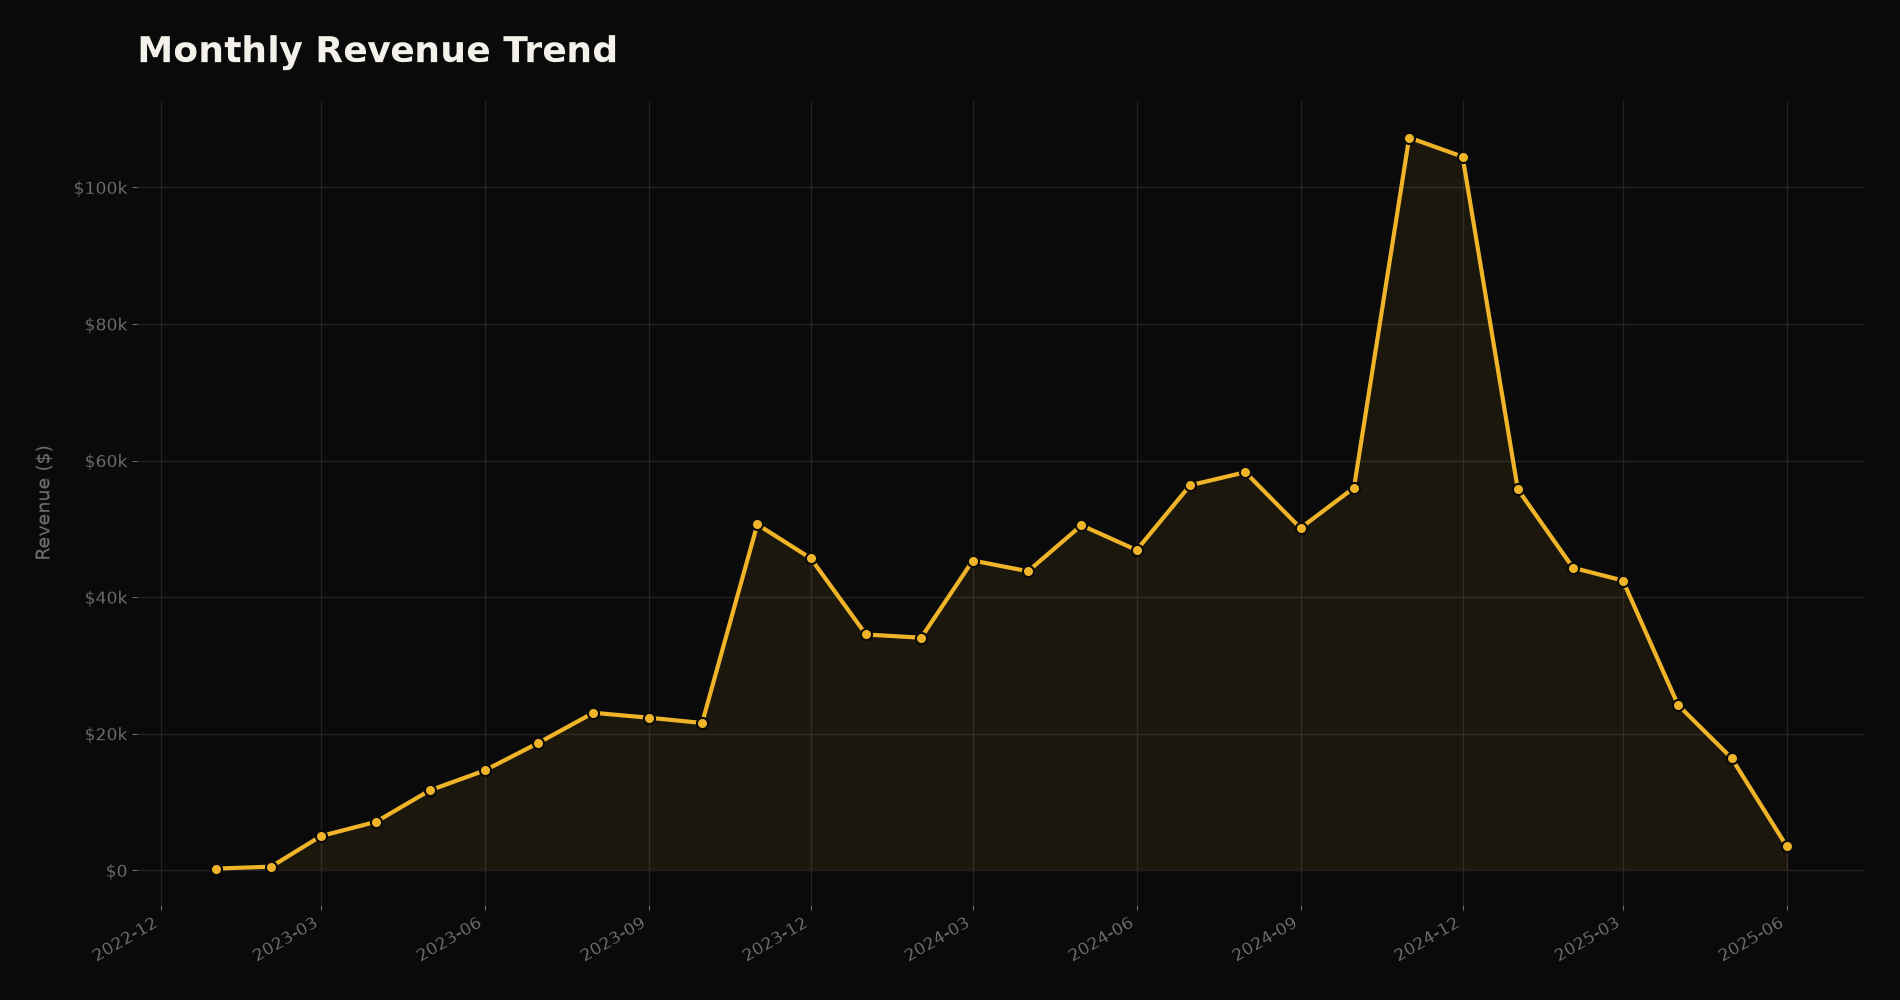
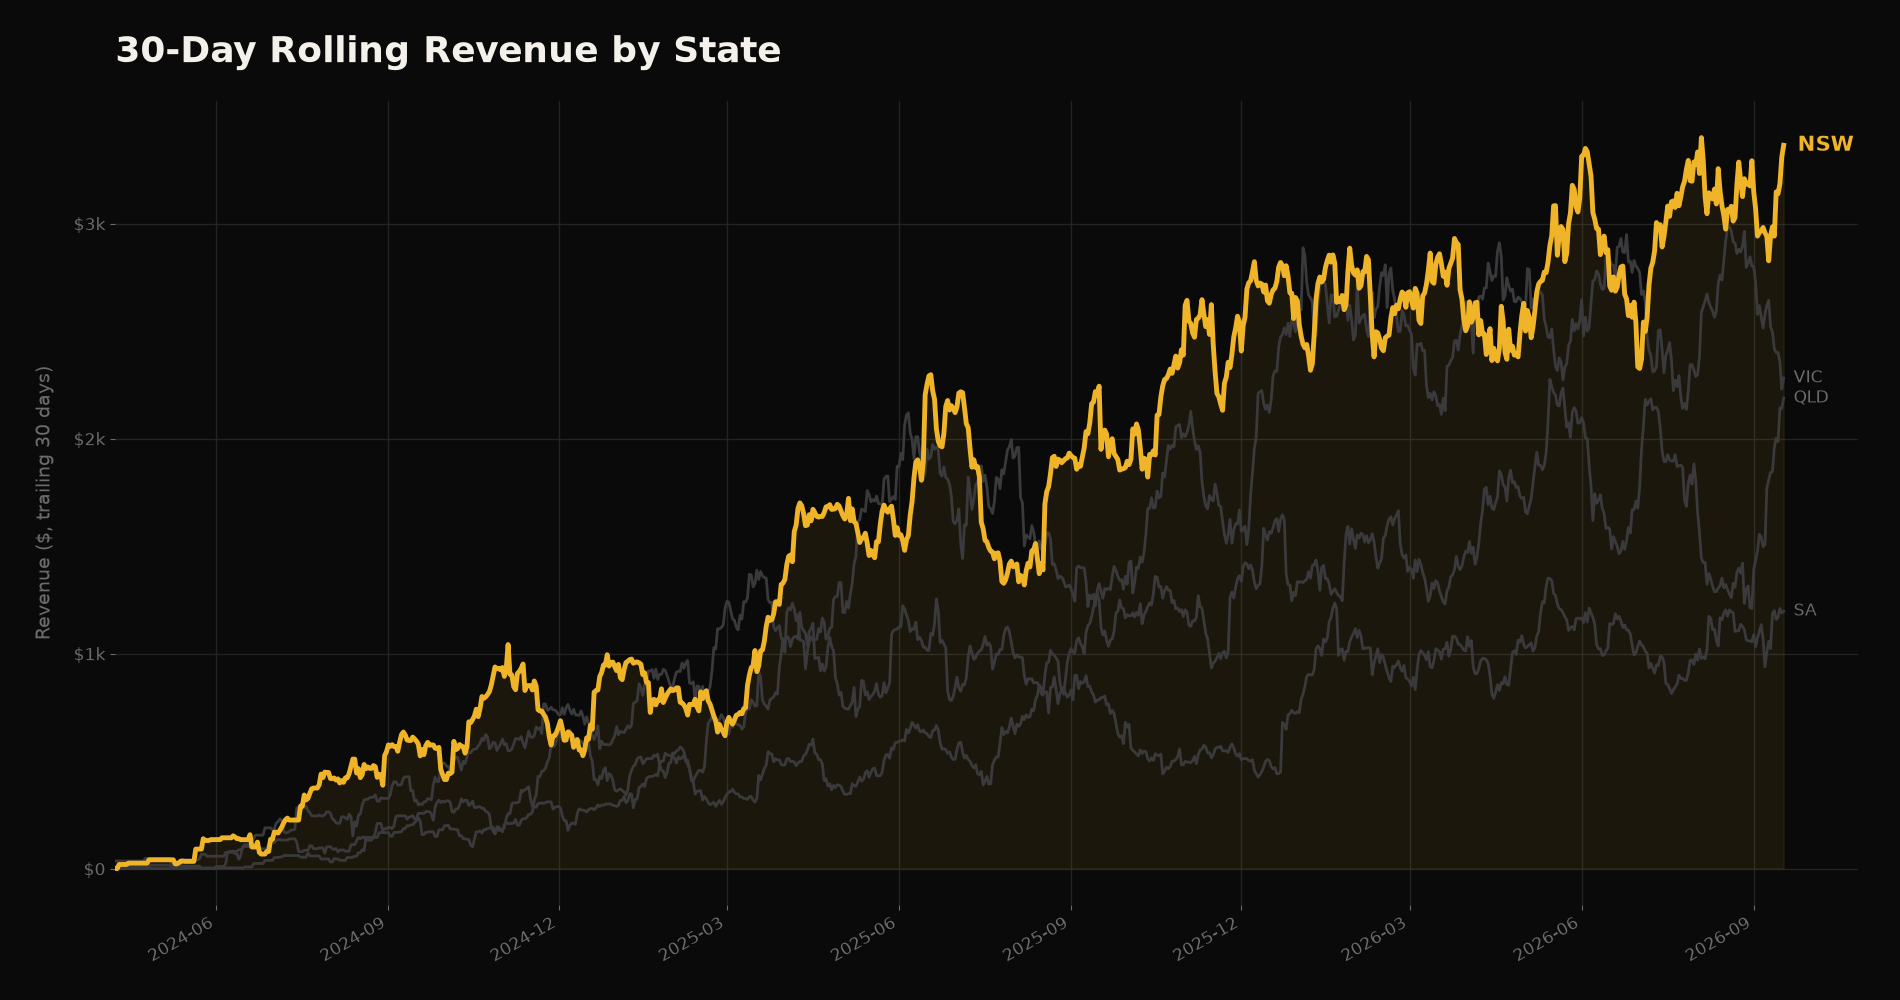
Update SQL Retail Analytics project to match its Australian supermarket rebuild
The underlying project moved from a generic synthetic retail dataset to
a PostgreSQL-first model of Woolworths/Coles banners (1,500 customers,
45 stores, 10,000 transactions across NSW/VIC/QLD/SA) with three
advanced window-function analyses replacing the old five-query/notebook
setup. Rewrote the case-study copy and stack to match, and regenerated
the cover chart from the real seeded database (30-day rolling revenue
by state) instead of leaving the stale notebook-era chart in place.

diff --git a/data/projects.ts b/data/projects.ts
@@ -198,52 +198,52 @@ export const projects: PortfolioProject[] = [
   },
   {
     slug: "sql-retail-analytics",
-    title: "SQL Retail Analytics",
-    subtitle: "SQL-first retail analysis: cohorts, churn risk, and window functions",
-    impact: "Automated churn-risk and cohort queries, each verified by a data-integrity test suite.",
+    title: "Australian Supermarket Retail Analytics",
+    subtitle: "PostgreSQL window-function analytics for Woolworths & Coles",
+    impact: "Modeled churn risk, cohort retention, and rolling regional revenue on a realistic AU supermarket dataset, each backed by a data-integrity test suite.",
     overview:
-      "A SQL-first analysis of a synthetic retail dataset, 600 customers and roughly 3,200 orders spanning early 2023 to mid-2025, using CTEs, window functions, and cohort analysis.",
+      "A SQL-first analysis of a synthetic Australian supermarket dataset, 1,500 customers and 45 stores across Woolworths and Coles banners, and 10,000 transactions spanning NSW, VIC, QLD, and SA, using PostgreSQL window functions for churn scoring, cohort retention, and rolling revenue.",
     image: "/projects/sql-retail-analytics-cover.png",
     accentImage: "/projects/sql-retail-analytics-cover.png",
     images: [],
     liveUrl: "",
     githubUrl: "https://github.com/prodev1996/sql-retail-analytics",
     liveLabel: "github.com/prodev1996/sql-retail-analytics",
-    stack: ["SQL", "Python", "Jupyter Notebook", "pytest"],
+    stack: ["SQL", "PostgreSQL", "Python", "Pandas", "Faker", "pytest"],
     businessGoal:
-      "Prove out real analyst SQL on a dataset realistic enough to have something genuine to say about customer behaviour.",
+      "Prove out real analyst SQL on a dataset realistic enough to have something genuine to say about customer behaviour, modeled on Australia's two dominant grocery banners.",
     role: "Solo build: schema design, synthetic data generation, SQL analysis, and testing",
     measurableOutcome:
-      "Five standalone SQL queries answering specific business questions, each backed by an executed, documented notebook and a data-integrity pytest suite.",
+      "Three advanced window-function analyses covering churn risk, cohort retention, and rolling regional revenue, each backed by a normalized PostgreSQL schema and a data-integrity pytest suite.",
     trustSignals: [
-      "Normalized relational schema",
-      "Window functions & cohort analysis",
+      "Normalized PostgreSQL schema",
+      "Advanced window functions",
       "Data-integrity test suite",
     ],
     proofPoints: [
-      "Designed a normalized schema (customers, orders, order_items, products, categories) and a deterministic synthetic data generator with built-in seasonality, loyalty variance, and a churn tail.",
-      "Wrote five independent SQL queries covering revenue trend with month-over-month growth (LAG()), customer lifetime value (DENSE_RANK()), product ranking within category (RANK() PARTITION BY), signup-cohort retention, and a gap-ratio churn-risk model.",
-      "Built a pytest suite checking referential integrity, value ranges, and that every analysis query actually executes and returns rows.",
+      "Designed a normalized schema (customers, stores, products, transactions) modeling Woolworths Group and Coles Group banners across NSW, VIC, QLD, and SA, seeded with ~1,500 customers, 45 stores, and 10,000 transactions via Pandas and Faker.",
+      "Wrote three advanced analyses: customer churn risk scoring (NTILE spend quartiles plus inactivity thresholds), a cohort retention matrix (COUNT() OVER PARTITION BY), and 30-day rolling revenue and basket size per region built on a full calendar spine (generate_series, LATERAL) with rolling SUM() OVER frames and LAG() for day-over-day change.",
+      "Built a pytest suite checking referential integrity, value ranges, and domain sanity across the generated dataset.",
     ],
     skillsShown: [
-      "Advanced SQL (CTEs, window functions)",
+      "Advanced SQL (window functions, LATERAL joins)",
       "Relational schema design",
       "Cohort & churn analysis",
       "Data-integrity testing",
     ],
     supportProof: [
-      "Wrote up findings for each query directly in the notebook, with committed outputs so the analysis is readable on GitHub without running anything.",
-      "Used a gap-ratio churn rule (a customer's current order gap versus their own historical average) instead of a flat days-since-last-order cutoff, for a more personalised at-risk list.",
-      "Documented setup, data generation, and how to reproduce every result from scratch.",
+      "Targeted PostgreSQL as the primary database, with a zero-config SQLite fallback for quick local evaluation.",
+      "Modeled realistic domain detail: real AU state/postcode constraints, loyalty programs (Everyday Rewards / Flybuys), and 13 supermarket categories with real brand-style product names.",
+      "Documented setup, data generation, and how to reproduce every result from scratch, for both PostgreSQL and SQLite.",
     ],
     takeaway:
       "This project is the clearest evidence of where I'm heading: real SQL analysis on the way to data engineering.",
     challenge:
-      "It's easy to demonstrate basic SQL with a SELECT and a GROUP BY. It's harder to show the kind of analysis an actual analyst does, ranking, cohorts, and behaviour-based risk models, on data realistic enough for the findings to mean something.",
+      "It's easy to demonstrate basic SQL with a SELECT and a GROUP BY. It's harder to show the kind of analysis an actual analyst does, churn scoring, cohort retention, and rolling regional metrics, on data realistic enough for the findings to mean something.",
     solution:
-      "I built a normalized schema and a synthetic data generator with real seasonality and churn patterns, then wrote five independent SQL queries using CTEs and window functions, each validated by a pytest data-integrity suite.",
+      "I built a normalized schema and a synthetic data generator modeling Australia's two dominant grocery banners, then wrote three advanced window-function analyses in PostgreSQL, each validated by a pytest data-integrity suite.",
     outcome:
-      "A working, tested analysis with documented findings: revenue seasonality, a long-tail customer value distribution, category-leading products, and a personalised churn-risk model, all runnable and readable directly on GitHub.",
+      "A working, tested analysis covering high-value customer churn risk, month-by-month cohort retention, and 30-day rolling revenue and basket size by state, all reproducible from a single seeded generator run.",
     supportValue: [
       "Directly demonstrates the SQL depth that data analyst and data engineering roles look for.",
       "Shows testing discipline carried over into data work, on top of application code.",
